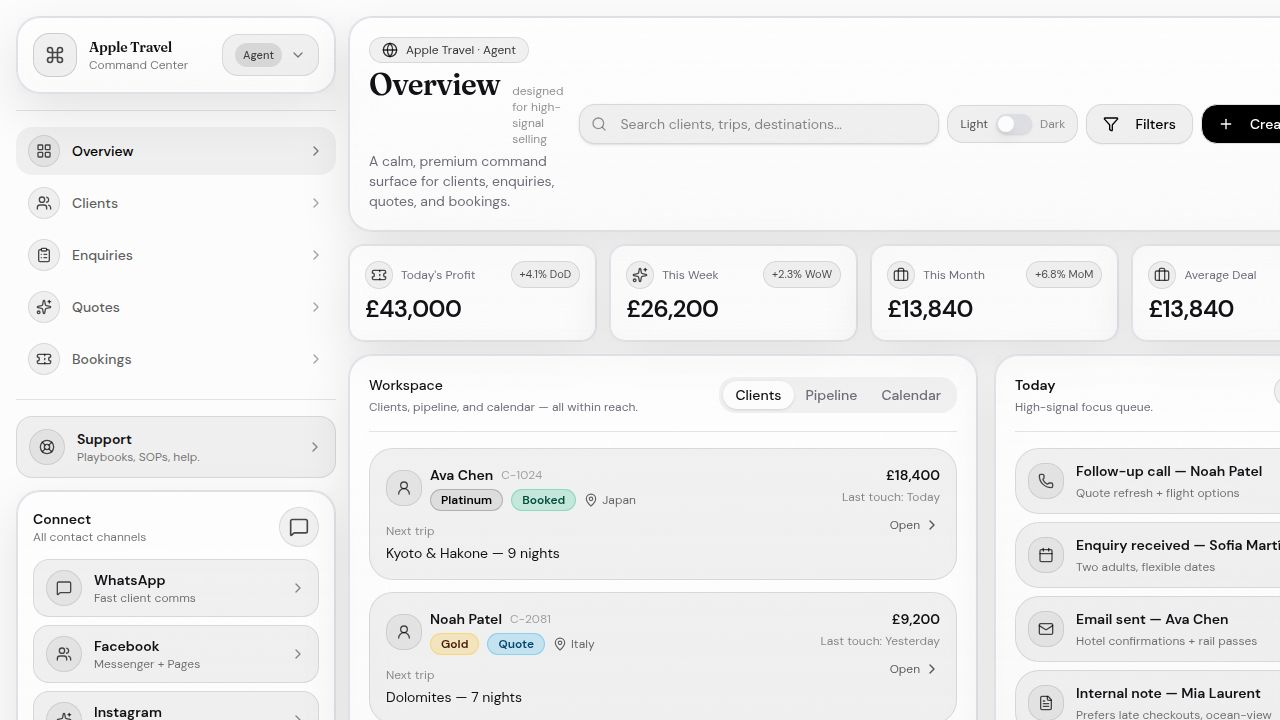
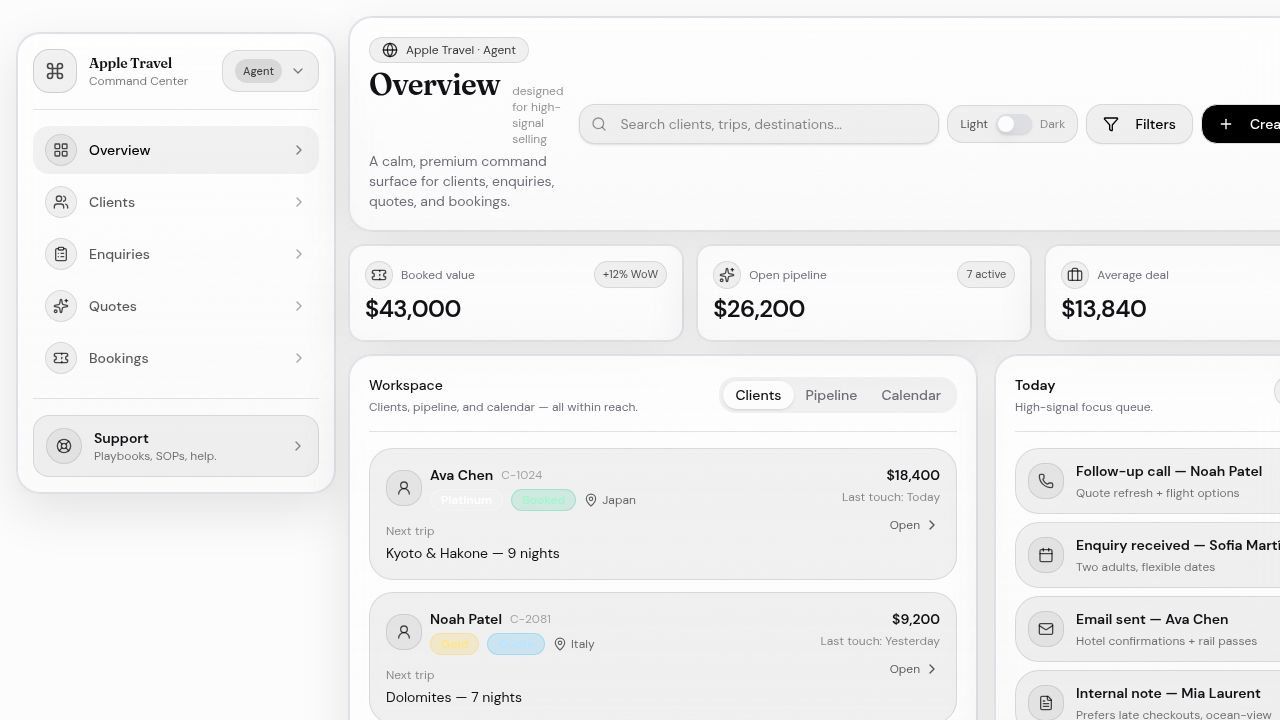
Restored to '3ff2214a7e31381a08a544c90bfa150263053a27'
Replit-Restored-To: 3ff2214a7e31381a08a544c90bfa150263053a27

diff --git a/client/src/pages/command-center.tsx b/client/src/pages/command-center.tsx
@@ -324,59 +324,57 @@ function ShellNav({
 
   return (
     <aside className="hidden lg:block">
-      <div className="space-y-3">
-        <div className="glass ringed grain rounded-3xl p-4" data-testid="panel-brand">
-          <div className="flex items-center justify-between gap-3">
-            <div className="flex items-center gap-3">
-              <div
-                className="relative grid h-11 w-11 place-items-center rounded-2xl border border-black/10 bg-black/5 dark:border-white/10 dark:bg-white/5"
-                data-testid="img-brand-mark"
-              >
-                <Command className="h-5 w-5 text-black/70 dark:text-white/85" />
-                <span className="pointer-events-none absolute inset-0 rounded-2xl ring-1 ring-black/5 dark:ring-white/5" />
+      <div className="glass ringed grain sticky top-4 rounded-3xl p-4">
+        <div className="flex items-center justify-between gap-3">
+          <div className="flex items-center gap-3">
+            <div
+              className="relative grid h-11 w-11 place-items-center rounded-2xl border border-black/10 bg-black/5 dark:border-white/10 dark:bg-white/5"
+              data-testid="img-brand-mark"
+            >
+              <Command className="h-5 w-5 text-black/70 dark:text-white/85" />
+              <span className="pointer-events-none absolute inset-0 rounded-2xl ring-1 ring-black/5 dark:ring-white/5" />
+            </div>
+            <div className="min-w-0">
+              <div className="title-serif truncate text-sm font-semibold" data-testid="text-brand-name">
+                Apple Travel
               </div>
-              <div className="min-w-0">
-                <div className="title-serif truncate text-sm font-semibold" data-testid="text-brand-name">
-                  Apple Travel
-                </div>
-                <div className="truncate text-xs text-black/55 dark:text-white/55" data-testid="text-brand-sub">
-                  Command Center
-                </div>
+              <div className="truncate text-xs text-black/55 dark:text-white/55" data-testid="text-brand-sub">
+                Command Center
               </div>
             </div>
-
-            <DropdownMenu>
-              <DropdownMenuTrigger asChild>
-                <button
-                  className="inline-flex items-center gap-2 rounded-2xl border border-black/10 bg-black/5 px-3 py-2 text-xs font-medium text-black/70 transition hover:bg-black/7 dark:border-white/10 dark:bg-white/5 dark:text-white/80 dark:hover:bg-white/10"
-                  data-testid="button-role-switch"
-                >
-                  <span className="inline-flex h-6 items-center rounded-full bg-black/10 px-2 text-[11px] text-black/70 dark:bg-white/10 dark:text-white/80">
-                    {role}
-                  </span>
-                  <ChevronDown className="h-4 w-4 text-black/50 dark:text-white/60" />
-                </button>
-              </DropdownMenuTrigger>
-              <DropdownMenuContent
-                align="end"
-                className="glass ringed w-56 rounded-2xl border-black/10 bg-[hsl(var(--popover))] p-2 dark:border-white/10"
-                data-testid="menu-role"
-              >
-                <DropdownMenuLabel className="text-xs text-black/70 dark:text-white/70">Access profile</DropdownMenuLabel>
-                <DropdownMenuSeparator className="bg-black/10 dark:bg-white/10" />
-                {(["Admin", "Manager", "Agent", "Homeworker", "Referer"] as Role[]).map((r) => (
-                  <DropdownMenuItem
-                    key={r}
-                    className="cursor-pointer rounded-xl text-sm text-black/85 focus:bg-black/5 focus:text-black dark:text-white/85 dark:focus:bg-white/10 dark:focus:text-white"
-                    onSelect={() => onRoleChange(r)}
-                    data-testid={`menuitem-role-${r.toLowerCase()}`}
-                  >
-                    {r}
-                  </DropdownMenuItem>
-                ))}
-              </DropdownMenuContent>
-            </DropdownMenu>
           </div>
+
+          <DropdownMenu>
+            <DropdownMenuTrigger asChild>
+              <button
+                className="inline-flex items-center gap-2 rounded-2xl border border-black/10 bg-black/5 px-3 py-2 text-xs font-medium text-black/70 transition hover:bg-black/7 dark:border-white/10 dark:bg-white/5 dark:text-white/80 dark:hover:bg-white/10"
+                data-testid="button-role-switch"
+              >
+                <span className="inline-flex h-6 items-center rounded-full bg-black/10 px-2 text-[11px] text-black/70 dark:bg-white/10 dark:text-white/80">
+                  {role}
+                </span>
+                <ChevronDown className="h-4 w-4 text-black/50 dark:text-white/60" />
+              </button>
+            </DropdownMenuTrigger>
+            <DropdownMenuContent
+              align="end"
+              className="glass ringed w-56 rounded-2xl border-black/10 bg-[hsl(var(--popover))] p-2 dark:border-white/10"
+              data-testid="menu-role"
+            >
+              <DropdownMenuLabel className="text-xs text-black/70 dark:text-white/70">Access profile</DropdownMenuLabel>
+              <DropdownMenuSeparator className="bg-black/10 dark:bg-white/10" />
+              {(["Admin", "Manager", "Agent", "Homeworker", "Referer"] as Role[]).map((r) => (
+                <DropdownMenuItem
+                  key={r}
+                  className="cursor-pointer rounded-xl text-sm text-black/85 focus:bg-black/5 focus:text-black dark:text-white/85 dark:focus:bg-white/10 dark:focus:text-white"
+                  onSelect={() => onRoleChange(r)}
+                  data-testid={`menuitem-role-${r.toLowerCase()}`}
+                >
+                  {r}
+                </DropdownMenuItem>
+              ))}
+            </DropdownMenuContent>
+          </DropdownMenu>
         </div>
 
         <Separator className="my-4 bg-black/10 dark:bg-white/10" />
@@ -442,20 +440,15 @@ function ShellNav({
           </button>
         </div>
 
-        <div className="mt-3 glass ringed grain rounded-3xl p-4" data-testid="panel-connect">
-          <div className="flex items-center justify-between gap-3">
-            <div>
-              <div className="text-sm font-semibold" data-testid="text-connect-title">Connect</div>
-              <div className="text-xs text-black/55 dark:text-white/55" data-testid="text-connect-sub">All contact channels</div>
-            </div>
-            <div className="inline-flex h-10 w-10 items-center justify-center rounded-3xl border border-black/10 bg-black/5 dark:border-white/10 dark:bg-white/5" aria-hidden>
-              <MessageSquare className="h-5 w-5 text-black/70 dark:text-white/80" />
-            </div>
-          </div>
+        <Separator className="my-4 bg-black/10 dark:bg-white/10" />
 
-          <div className="mt-3 grid gap-2">
+        <div className="space-y-2">
+          <div className="px-1 text-[11px] font-semibold tracking-wide text-black/45 dark:text-white/45" data-testid="text-connect-title">
+            Connect
+          </div>
+          <div className="grid gap-2">
             <button
-              className="flex items-center justify-between rounded-2xl border border-black/10 bg-black/5 px-3 py-2.5 text-left transition hover:bg-black/7 active:scale-[0.99] dark:border-white/10 dark:bg-white/5 dark:hover:bg-white/7"
+              className="flex items-center justify-between rounded-2xl border border-black/10 bg-black/5 px-3 py-3 text-left transition hover:bg-black/7 active:scale-[0.99] dark:border-white/10 dark:bg-white/5 dark:hover:bg-white/7"
               data-testid="button-connect-whatsapp"
             >
               <div className="flex items-center gap-3">
@@ -471,7 +464,7 @@ function ShellNav({
             </button>
 
             <button
-              className="flex items-center justify-between rounded-2xl border border-black/10 bg-black/5 px-3 py-2.5 text-left transition hover:bg-black/7 active:scale-[0.99] dark:border-white/10 dark:bg-white/5 dark:hover:bg-white/7"
+              className="flex items-center justify-between rounded-2xl border border-black/10 bg-black/5 px-3 py-3 text-left transition hover:bg-black/7 active:scale-[0.99] dark:border-white/10 dark:bg-white/5 dark:hover:bg-white/7"
               data-testid="button-connect-facebook"
             >
               <div className="flex items-center gap-3">
@@ -487,7 +480,7 @@ function ShellNav({
             </button>
 
             <button
-              className="flex items-center justify-between rounded-2xl border border-black/10 bg-black/5 px-3 py-2.5 text-left transition hover:bg-black/7 active:scale-[0.99] dark:border-white/10 dark:bg-white/5 dark:hover:bg-white/7"
+              className="flex items-center justify-between rounded-2xl border border-black/10 bg-black/5 px-3 py-3 text-left transition hover:bg-black/7 active:scale-[0.99] dark:border-white/10 dark:bg-white/5 dark:hover:bg-white/7"
               data-testid="button-connect-instagram"
             >
               <div className="flex items-center gap-3">
@@ -503,7 +496,7 @@ function ShellNav({
             </button>
 
             <button
-              className="flex items-center justify-between rounded-2xl border border-black/10 bg-black/5 px-3 py-2.5 text-left transition hover:bg-black/7 active:scale-[0.99] dark:border-white/10 dark:bg-white/5 dark:hover:bg-white/7"
+              className="flex items-center justify-between rounded-2xl border border-black/10 bg-black/5 px-3 py-3 text-left transition hover:bg-black/7 active:scale-[0.99] dark:border-white/10 dark:bg-white/5 dark:hover:bg-white/7"
               data-testid="button-connect-email"
             >
               <div className="flex items-center gap-3">
@@ -519,7 +512,7 @@ function ShellNav({
             </button>
 
             <button
-              className="flex items-center justify-between rounded-2xl border border-black/10 bg-black/5 px-3 py-2.5 text-left transition hover:bg-black/7 active:scale-[0.99] dark:border-white/10 dark:bg-white/5 dark:hover:bg-white/7"
+              className="flex items-center justify-between rounded-2xl border border-black/10 bg-black/5 px-3 py-3 text-left transition hover:bg-black/7 active:scale-[0.99] dark:border-white/10 dark:bg-white/5 dark:hover:bg-white/7"
               data-testid="button-connect-internal-chat"
             >
               <div className="flex items-center gap-3">
@@ -535,7 +528,7 @@ function ShellNav({
             </button>
 
             <button
-              className="flex items-center justify-between rounded-2xl border border-black/10 bg-black/5 px-3 py-2.5 text-left transition hover:bg-black/7 active:scale-[0.99] dark:border-white/10 dark:bg-white/5 dark:hover:bg-white/7"
+              className="flex items-center justify-between rounded-2xl border border-black/10 bg-black/5 px-3 py-3 text-left transition hover:bg-black/7 active:scale-[0.99] dark:border-white/10 dark:bg-white/5 dark:hover:bg-white/7"
               data-testid="button-connect-phone"
             >
               <div className="flex items-center gap-3">
